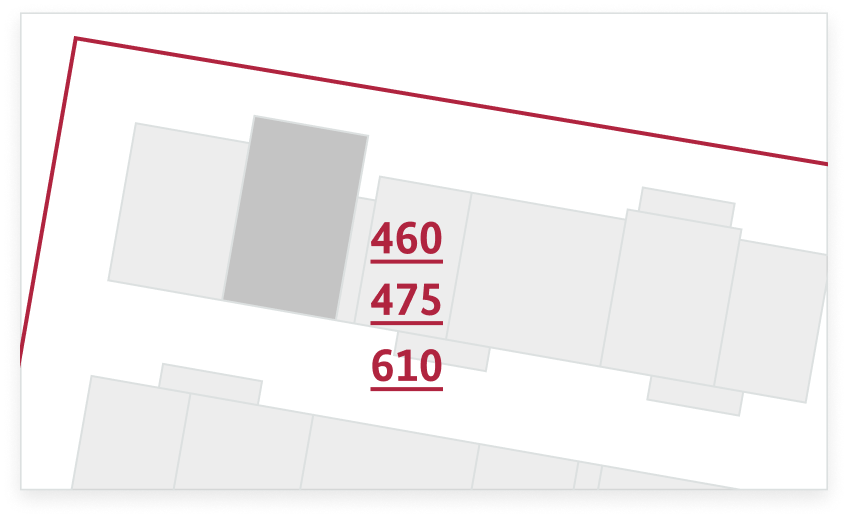
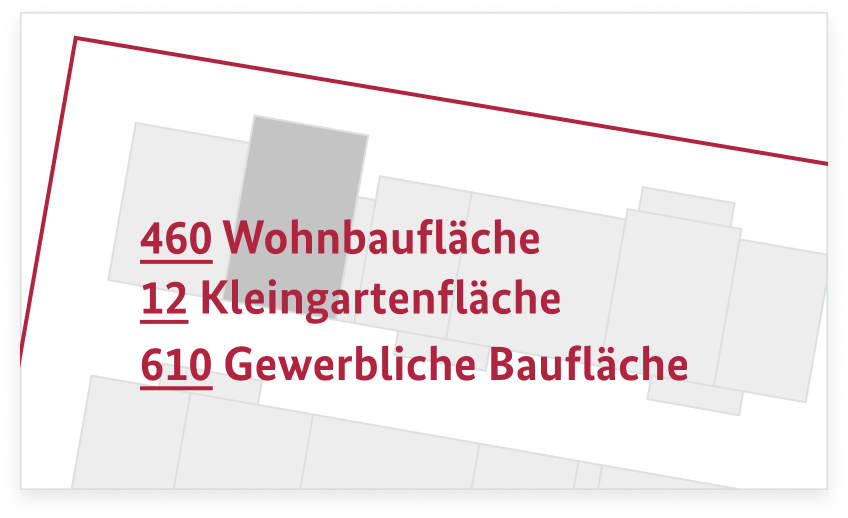
Update text and images for bodenrichtwert.

diff --git a/app/components/form/help/grundstueck/bodenrichtwert/BodenrichtwertAnzahlHelp.tsx b/app/components/form/help/grundstueck/bodenrichtwert/BodenrichtwertAnzahlHelp.tsx
@@ -1,9 +1,7 @@
 import DefaultHelpContent, {
   HelpComponentFunction,
 } from "~/components/form/help/Default";
-import image11 from "~/assets/images/help/help-bodenrichtwert-anzahl-1-1.png";
-import image12 from "~/assets/images/help/help-bodenrichtwert-anzahl-1-2.png";
-import image21 from "~/assets/images/help/help-bodenrichtwert-anzahl-2-1.png";
+import image from "~/assets/images/help/boris/eingabe-mehrere-werte.png";
 
 export const BodenrichtwertAnzahl1Help: HelpComponentFunction = () => {
   return (
@@ -15,19 +13,14 @@ export const BodenrichtwertAnzahl1Help: HelpComponentFunction = () => {
             "Wenn alle Teile Ihres Grundstücks einen Bodenrichtwert haben, wählen Sie diese Option aus.",
         },
         {
-          type: "image",
-          source: image11,
-          altText: "",
-        },
-        {
           type: "paragraph",
           value:
-            "Manche Bodenrichtwertportale bieten verschiedene „Arten der Nutzung“ an. Zum Beispiel Mehrfamilienhaus, Gewerbefläche oder Freizeitfläche). Bestimmen Sie die entsprechende Art der Nutzung für Ihr Grundstück. Diese entspricht nur einem Bodenrichtwert.",
+            "Manche Bodenrichtwertportale bieten verschiedene “Art der Nutzung” an. Zum Beispiel Mehrfamilienhaus, Gewerbefläche oder Freizeitfläche. Bestimmen Sie die entsprechende Art der Nutzung, die auf Ihr Grundstück zutrifft. Wenn Ihr Grundstück mehrere Arten der Nutzung hat, vermerken Sie dies im Freitextfeld am Ende der Formularseiten.",
         },
         {
           type: "image",
-          source: image12,
-          altText: "",
+          source: image,
+          altText: "Bildbeispiel für verschiedene Arten der Nutzung",
         },
       ]}
     />
@@ -40,22 +33,18 @@ export const BodenrichtwertAnzahl2Help: HelpComponentFunction = () => {
         {
           type: "paragraph",
           value:
-            "Wenn Ihr Grundstück zwei oder mehr verschiedene Bodenrichtwerte hat, wählen Sie diese Option aus.",
-        },
-        {
-          type: "image",
-          source: image21,
-          altText: "",
+            "Wenn Ihr Grundstück zwei oder mehrere verschiedene Bodenrichtwerte hat, wählen Sie diese Option aus. Dies ist der Fall, wenn durch alle Flurstücke, die zu einem Grundstück gehören, eine Bodenrichtwertgrenze verläuft.",
         },
         {
           type: "paragraph",
           value:
-            "Manche Bodenrichtwertportale bieten verschiedene „Arten der Nutzung“ an. Zum Beispiel Mehrfamilienhaus, Gewerbefläche oder Freizeitfläche). Bestimmen Sie die entsprechende Art der Nutzung für Ihr Grundstück. Diese entspricht nur einem Bodenrichtwert.",
+            "Manche Bodenrichtwertportale bieten verschiedene “Art der Nutzung” an. Zum Beispiel Mehrfamilienhaus, Gewerbefläche oder Freizeitfläche. Bestimmen Sie die entsprechende Art der Nutzung, die auf Ihr Grundstück zutrifft.\n" +
+            "Wenn Ihr Grundstück mehrere Arten der Nutzung hat, vermerken Sie dies im Freitextfeld am Ende der Formularseiten.",
         },
         {
           type: "image",
-          source: image12,
-          altText: "",
+          source: image,
+          altText: "Bildbeispiel für verschiedene Arten der Nutzung",
         },
       ]}
     />

diff --git a/app/components/form/help/grundstueck/bodenrichtwert/BodenrichtwertEingabeHelp.tsx b/app/components/form/help/grundstueck/bodenrichtwert/BodenrichtwertEingabeHelp.tsx
@@ -59,8 +59,7 @@ const BEEingabeHelp: HelpComponentFunction = () => {
         {
           type: "image",
           source: mehrereWerte,
-          altText:
-            "Bildbeispiel für eine Bodenrichtwertzone mit mehreren Werten",
+          altText: "Bildbeispiel für verschiedene Arten der Nutzung",
         },
       ]}
     />
@@ -90,8 +89,7 @@ const HBEingabeHelp: HelpComponentFunction = () => {
         {
           type: "image",
           source: mehrereWerte,
-          altText:
-            "Bildbeispiel für eine Bodenrichtwertzone mit mehreren Werten",
+          altText: "Bildbeispiel für verschiedene Arten der Nutzung",
         },
       ]}
     />
@@ -181,8 +179,7 @@ const SHEingabeHelp: HelpComponentFunction = () => {
         {
           type: "image",
           source: mehrereWerte,
-          altText:
-            "Bildbeispiel für eine Bodenrichtwertzone mit mehreren Werten",
+          altText: "Bildbeispiel für verschiedene Arten der Nutzung",
         },
       ]}
     />
@@ -232,8 +229,7 @@ const SNEingabeHelp: HelpComponentFunction = () => {
         {
           type: "image",
           source: mehrereWerte,
-          altText:
-            "Bildbeispiel für eine Bodenrichtwertzone mit mehreren Werten",
+          altText: "Bildbeispiel für verschiedene Arten der Nutzung",
         },
       ]}
     />
@@ -283,8 +279,7 @@ const THEingabeHelp: HelpComponentFunction = () => {
         {
           type: "image",
           source: mehrereWerte,
-          altText:
-            "Bildbeispiel für eine Bodenrichtwertzone mit mehreren Werten",
+          altText: "Bildbeispiel für verschiedene Arten der Nutzung",
         },
       ]}
     />
@@ -303,8 +298,7 @@ const DefaultEingabeHelp: HelpComponentFunction = () => {
         {
           type: "image",
           source: mehrereWerte,
-          altText:
-            "Bildbeispiel für eine Bodenrichtwertzone mit mehreren Werten",
+          altText: "Bildbeispiel für verschiedene Arten der Nutzung",
         },
       ]}
     />

diff --git a/test/e2e/boris.spec.ts b/test/e2e/boris.spec.ts
@@ -177,16 +177,18 @@ describe("Boris pags", () => {
         );
         cy.contains(
           "legend",
-          "Liegt für Ihr gesamtes Grundstück ein einheitlicher Bodenrichtwert vor?"
+          "Liegt Ihr gesamtes Grundstück innerhalb einer Bodenrichtwertzone?"
         );
         cy.contains(
           "Hier geht es darum, ob alle Teile Ihres Grundstücks denselben Bodenrichtwert (in Euro) haben. Liegt das gesamte Grundstück innerhalb einer Bodenrichtwertzone oder wird es geteilt und hat dadurch unterschiedliche Werte?"
         );
         cy.get("label[for=anzahl-1]")
-          .contains("Ja, mein gesamtes Grundstück hat nur einen Bodenrichtwert")
+          .contains(
+            "Ja, mein gesamtes Grundstück liegt innerhalb einer Bodenrichtwertzone"
+          )
           .click();
         cy.get("label[for=anzahl-2").contains(
-          "Nein, es liegen mehrere Bodenrichtwerte für mein Grundstück vor"
+          "Nein, mein Grundstück liegt in verschiedenen Bodenrichtwertzonen"
         );
         cy.get("#nextButton").click();
 

diff --git a/test/e2e/happypath.spec.ts b/test/e2e/happypath.spec.ts
@@ -240,10 +240,6 @@ describe("Happy Path", () => {
     cy.contains("h1", "Bodenrichtwert");
     cy.get(submitBtnSelector).click();
     cy.url().should("include", "/formular/grundstueck/bodenrichtwertAnzahl");
-    cy.contains(
-      "legend",
-      "Liegt für Ihr gesamtes Grundstück ein einheitlicher Bodenrichtwert vor?"
-    );
     cy.get("label[for=anzahl-1]").click();
     cy.get(submitBtnSelector).click();
     cy.contains("h1", "Geben Sie den Bodenrichtwert");

diff --git a/app/i18n/getStepI18n.ts b/app/i18n/getStepI18n.ts
@@ -27,7 +27,7 @@ export type I18nObject = {
     [index: string]: I18nObjectField;
   };
   specifics: Record<string, string>;
-  help: Record<string, string>;
+  help?: Record<string, string>;
   nextButtonLabel: string;
   common: Record<string, string>;
 };
